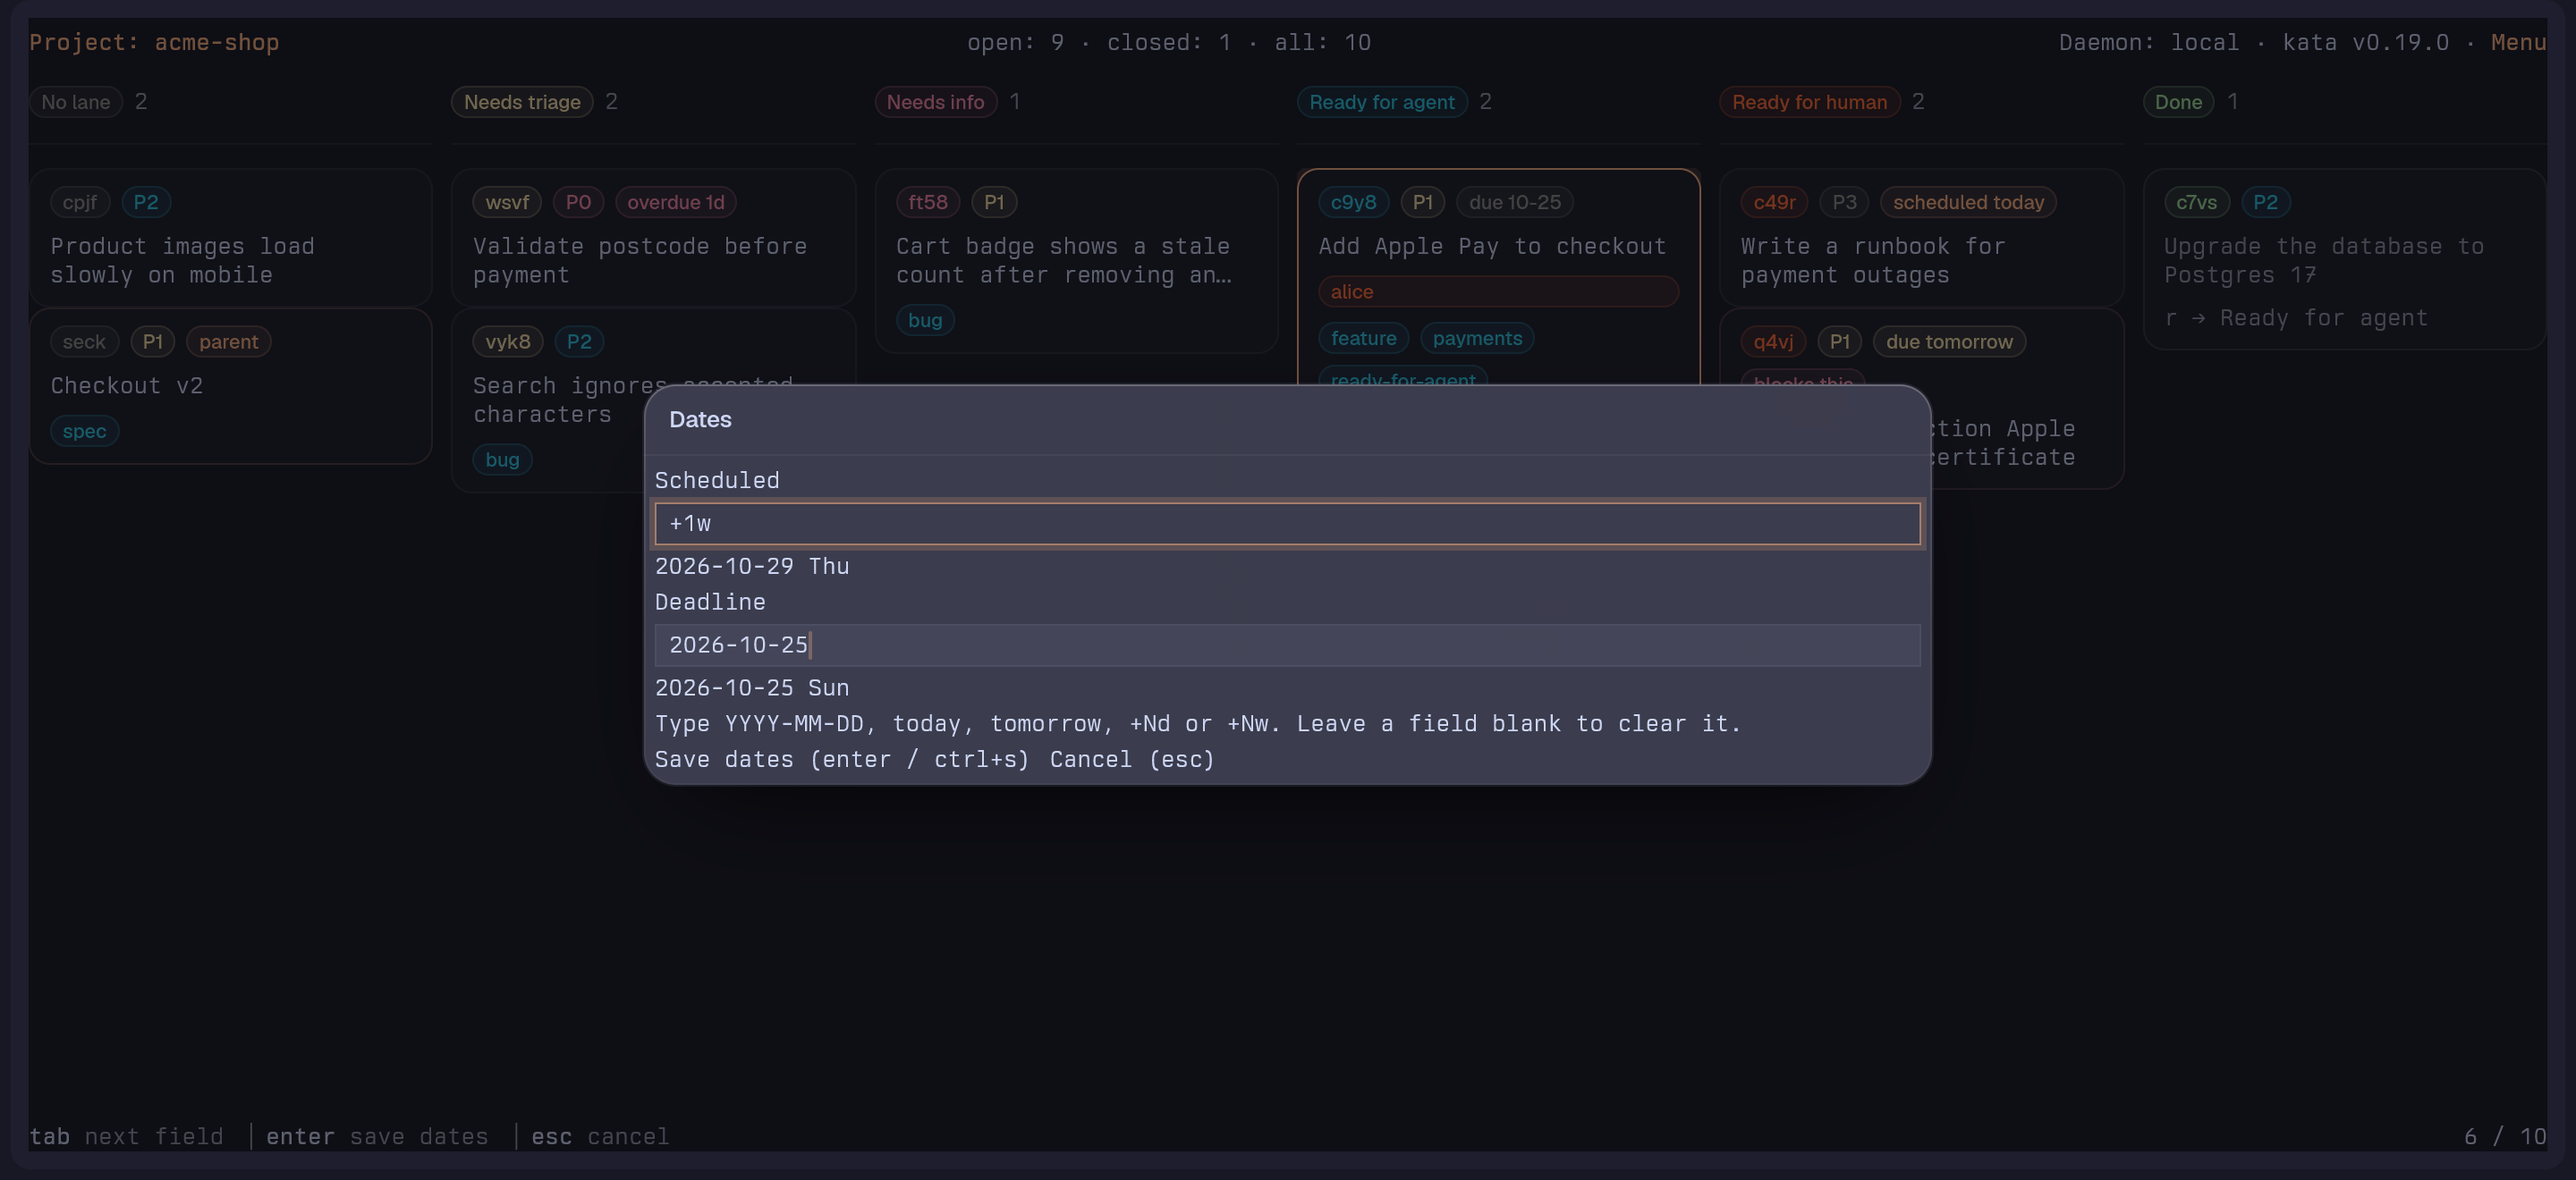
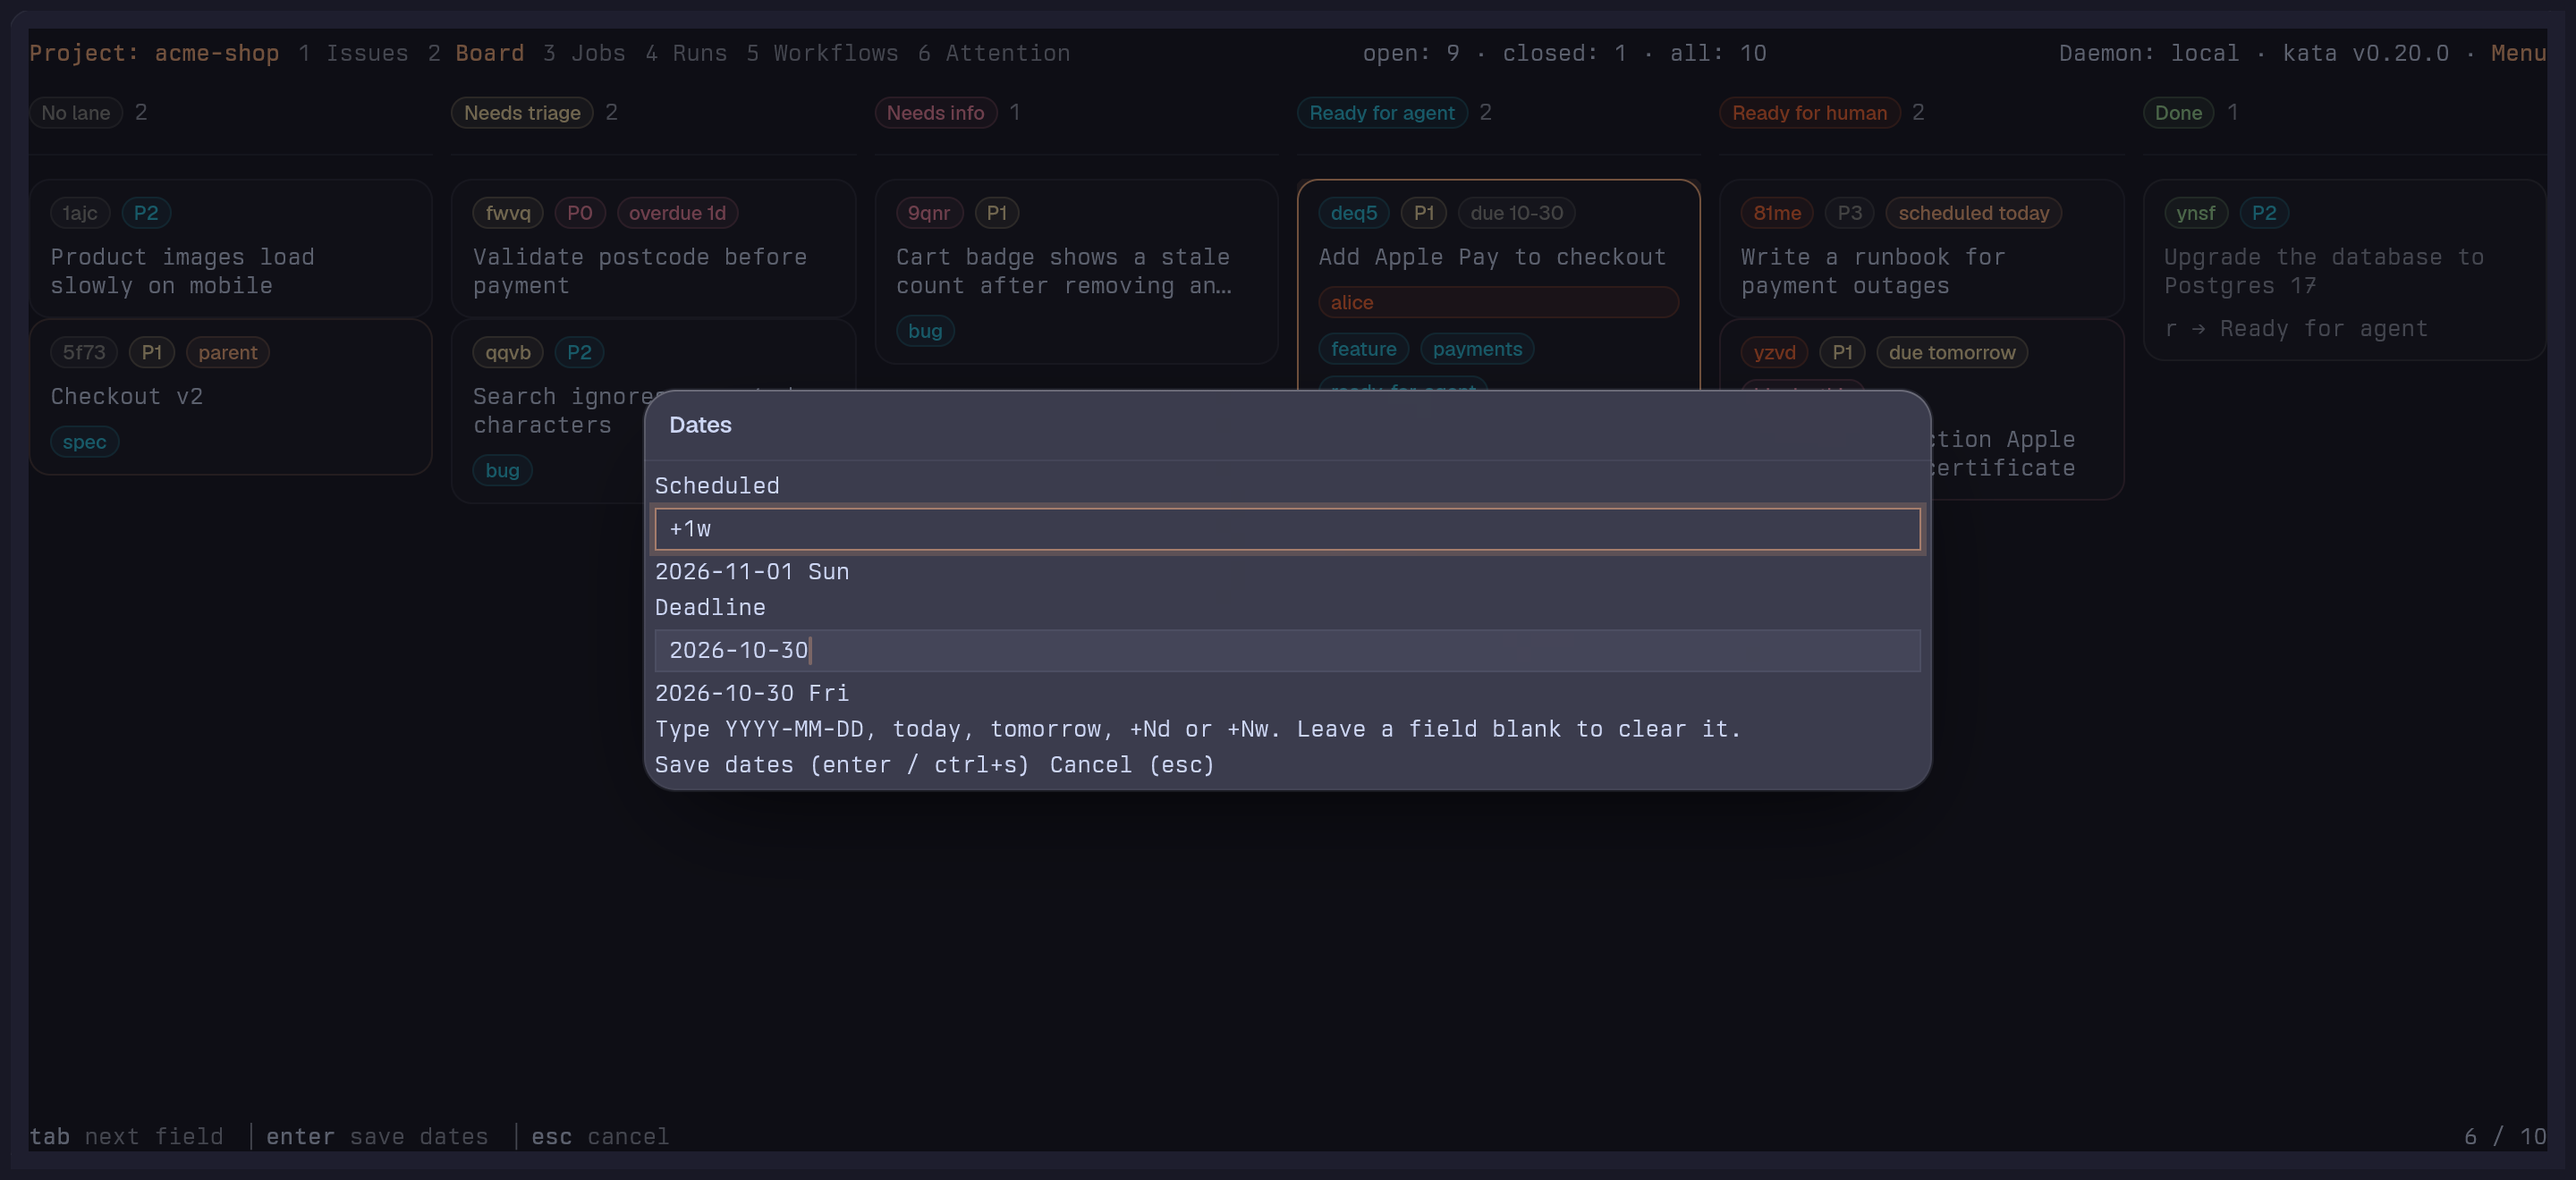
Recapture the screenshots against kata v0.20.0 and the current Pane

diff --git a/README.md b/README.md
@@ -52,7 +52,7 @@ In tern-kata, Issue bodies render as Markdown, priorities and labels show as chi
 
 **Dates card.** `d` sets an Issue's scheduled date and deadline, typed as a date, `today`, `tomorrow`, `+3d` or `+1w`. See [Dates](docs/guide/dates.md).
 
-![The Dates card over the Board, with "+1w" resolving to 2026-10-29](docs/images/dates-card.png)
+![The Dates card over the Board, with "+1w" resolving to 2026-11-01](docs/images/dates-card.png)
 
 **Moving an Issue.** `M` opens the Move card on the selected Issue: pick a Project from a filtered list, preview the move (kata checks it and changes nothing), then move it, guarded on the revision the card opened with. A Notice links to the Issue in its new Project. See [Moving an Issue](docs/guide/pages-and-board.md#moving-an-issue).
 

diff --git a/docs/guide/dates.md b/docs/guide/dates.md
@@ -2,7 +2,7 @@
 
 `d` on the selected Issue (in the list, on the Board, in the Lane view and in the Issue detail) opens the **Dates card**: a Scheduled field and a Deadline field holding the Issue's current dates.
 
-![The Dates card over the Board, with "+1w" resolving to 2026-10-29](../images/dates-card.png)
+![The Dates card over the Board, with "+1w" resolving to 2026-11-01](../images/dates-card.png)
 
 `tab` moves between the fields, `enter` saves and `esc` cancels. A field takes:
 
